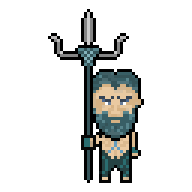
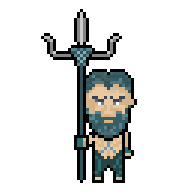
new poseidonmain

Changed region(s): [[0.2188, 0.0312, 0.75, 0.9688]]

diff --git a/Game.py b/Game.py
@@ -1,15 +1,17 @@
 """
 Gods of Olympus
-Last Modified: 1/20/23
+Last Modified: 1/24/23
 Course: CS269
 File: Game.py
 """
 
 import pygame
+import pygame_gui
 from pygame import mixer
 from Zeus import Zeus
 from Hades import Hades
 from Poseidon import Poseidon
+from helperUI import helperUI
 from map import Map
 from pygame.locals import *
 import sys
@@ -17,7 +19,7 @@ import sys
 class Game():
 
     # Constructor
-    def __init__(self, HEIGHT, WIDTH, ACC, FRIC, FPS):
+    def __init__(self, HEIGHT, WIDTH, ACC, FRIC, FPS, p1_character, p2_character, map_type):
         self.HEIGHT = HEIGHT
         self.WIDTH = WIDTH
         self.ACC = ACC
@@ -29,30 +31,118 @@ class Game():
         self.screen = pygame.display.set_mode((WIDTH, HEIGHT))
         self.fighter_1 = None
         self.fighter_2 = None
+        self.p1_character = p1_character
+        self.p2_character = p2_character
+        self.is_running = True
+        self.return_to_menu = False
+
+        # Settings button
+        self.paused = False
+        self.settings_manager = pygame_gui.UIManager((self.WIDTH, self.HEIGHT), 'sky_theme.json')
+        self.settings_button = pygame_gui.elements.UIButton(pygame.Rect((self.WIDTH - 50, 10), (40, 40)), text = '', manager = self.settings_manager)
+        self.settings_gui_enabled = False
+        self.helper_ui = helperUI(self.WIDTH, self.HEIGHT, self.screen)
 
         # load map
-        self.map = Map(1, HEIGHT, WIDTH, ACC, FRIC, FPS, self.screen)
+        self.map = Map(map_type, HEIGHT, WIDTH, ACC, FRIC, FPS, self.screen)
 
         #define fighter variables
         self.ledges = self.map.draw_ledges()
 
+    # Colors all visible pixels of an image
+    def color_surface(self, surface, red, green, blue):
+        arr = pygame.surfarray.pixels3d(surface)
+        arr[:,:,0] = red
+        arr[:,:,1] = green
+        arr[:,:,2] = blue
+
+    # Resumes the game
+    def resumeGame(self, buttons, managers):
+        print('Resuming game...')
+        self.helper_ui.remove_access_buttons(buttons, managers)
+        self.is_running = False
+        #pygame.time.delay(100)
+
+    # Pauses the game
+    def pauseGame(self):
+
+        print('GAME PAUSED!')
+        clock = pygame.time.Clock()
+        self.is_running = True
+
+        # Make background semi-transparent
+        transparent_surface = pygame.Surface((self.WIDTH, self.HEIGHT))
+        transparent_surface.set_alpha(128)
+        dark_screen = pygame.Rect(0, 0, self.WIDTH, self.HEIGHT)
+        pygame.draw.rect(transparent_surface, (0, 0, 0), dark_screen)
+        self.screen.blit(transparent_surface, (0, 0))
+
+        # Initialize Settings GUI
+        buttons = []
+        managers = []
+        self.helper_ui.initialize_settings_gui(True, buttons, managers)
+
+        # Update display
+        pygame.display.update()
+
+        while self.is_running:
+            time_delta = clock.tick(60)/1000.0
+            key = pygame.key.get_pressed()
+            for event in pygame.event.get():
+                if key[pygame.K_ESCAPE] or key[pygame.K_p]:
+                    self.is_running = False
+
+                elif event.type == pygame.QUIT:
+                    pygame.quit()
+                    sys.exit()
+
+                if event.type == pygame_gui.UI_BUTTON_PRESSED:  # What to do if each button is pressed
+                    if event.ui_element == buttons[0]:      # Resume button
+                        print('Resuming game...')
+                        self.resumeGame(buttons, managers)
+                        #self.is_running = False
+                        break
+
+                    elif event.ui_element == buttons[1]:    # Exit button
+                        print('Exiting game...')
+                        self.return_to_menu = True  # Return to menu
+                        return
+
+                # Update events (button hovering or clicking)
+                for manager in managers:
+                    manager.process_events(event)
+                    manager.update(time_delta)
+
+            # Update screen
+            self.helper_ui.initialize_settings_gui(True, buttons, managers)
+
+            # Draw buttons
+            for manager in managers:
+                manager.draw_ui(self.screen)
+
+            pygame.display.update()
 
     # Runs the game
     def runGame(self):
 
         # starting location of fighters
         self.fighter_1 = Hades(1, 0, self.HEIGHT - 200, self.ledges, self.screen)
-        self.fighter_2 = Hades(2, self.WIDTH - 400, self.HEIGHT-500, self.ledges, self.screen)
+        self.fighter_2 = Poseidon(2, self.WIDTH - 400, self.HEIGHT-500, self.ledges, self.screen)
 
         # Sets screen header
         pygame.display.set_caption("Gods of Olympus")
 
         # Load music
-        mixer.music.load('Game_sounds/Background_music.mp3')
-        mixer.music.play(-1)
+        pygame.mixer.music.unload()
+        pygame.mixer.music.load('Game_sounds/Background_music.wav')
+        pygame.mixer.music.play(-1)
+        pygame.mixer.music.set_volume(0.3)
 
         # game looper
         while True:
+
+            if self.return_to_menu:
+                return
 
             # checks if a fighter has no hp and restarts the game if that's the case
             if self.fighter_1.health <= 0 or self.fighter_2.health <= 0:
@@ -85,18 +175,15 @@ class Game():
             # Draws scoreboard
             self.map.draw_stats(self.f1_wins, self.f2_wins)
 
-
             # allows player to exit
             key = pygame.key.get_pressed()
             for event in pygame.event.get():
-                if event.type == QUIT:
+                if event.type == QUIT:  # Quits game
                     pygame.quit()
                     sys.exit()
+                if key[pygame.K_ESCAPE] or key[pygame.K_p]:     # Pauses game
+                    self.pauseGame()
 
-                if key[pygame.K_ESCAPE]:
-                    pygame.quit()
-                    sys.exit()
-
-            # sets max frame rate
+            # Update display
             pygame.display.update()
             self.FramePerSec.tick(self.FPS)
